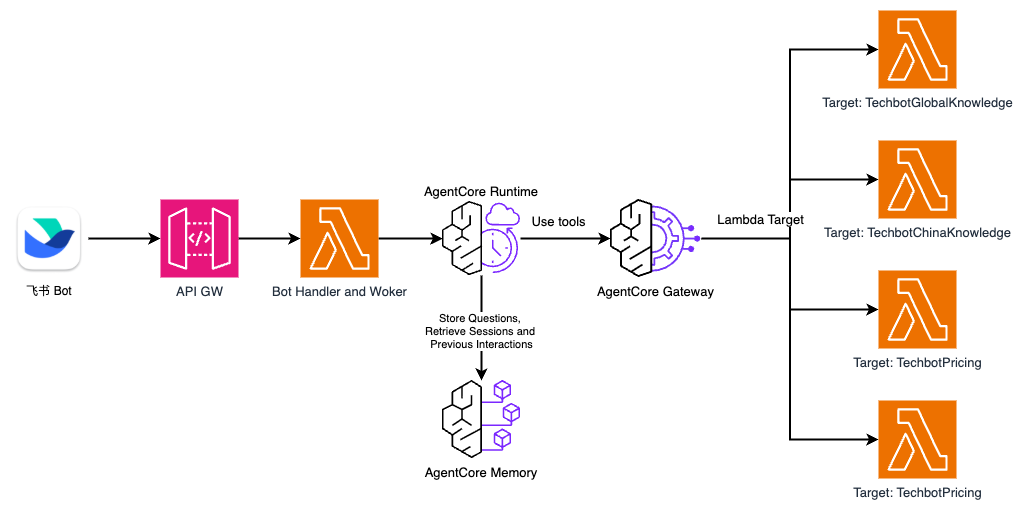
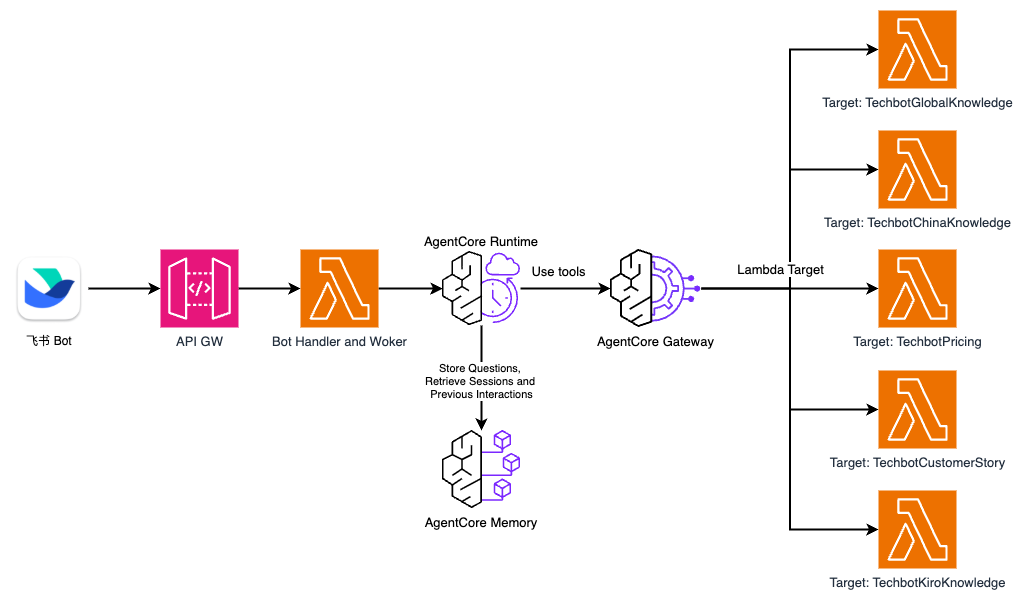
update kiro mcp

Changed region(s): [[0.1515, 0.0, 1.0, 1.0], [0.3939, 0.5938, 0.5455, 0.9375], [0.0, 0.4062, 0.1515, 0.5938]]

diff --git a/README_EN.md b/README_EN.md
@@ -17,6 +17,7 @@ Tools are managed through AgentCore Gateway — the Agent automatically discover
 - **Configuration & Tutorials** — Look up configuration steps, tutorials, and sample code for AWS services
 - **Cost Estimation** — Real-time pricing queries for both AWS Global and China regions
 - **Troubleshooting** — Quickly find troubleshooting guides, quota limits, error codes, and operational SOPs
+- **Kiro Knowledge** — Query documentation about Kiro, including features, setup, specs, hooks, steering, and MCP
 
 ## Deployment
 
@@ -40,7 +41,7 @@ Before deploying, create an app on the Feishu Open Platform to get the App ID an
 
 Click the button and fill in the parameters. The stack creates:
 - **AgentCore Gateway** — Unified MCP tool endpoint + Cognito auth
-- **Gateway Targets** — 4 Lambdas (Global Knowledge, China Knowledge, Pricing, Customer Stories)
+- **Gateway Targets** — 5 Lambdas (Global Knowledge, China Knowledge, Pricing, Customer Stories, Kiro Knowledge)
 - **AgentCore Runtime** — Runs the TechBot container
 - **AgentCore Memory** (optional) — Multi-turn conversation memory
 - **API Gateway** — `/chat` POST endpoint for Feishu webhook

diff --git a/README.md b/README.md
@@ -17,6 +17,7 @@
 - **配置方法与教程查询** — 查询 AWS 服务的配置步骤、操作教程和示例代码，降低上手门槛
 - **成本估算** — 实时查询 AWS 全球和中国区域的服务定价，辅助架构选型和成本优化决策
 - **故障排查与运维支持** — 快速检索 AWS 服务的故障排查指南、配额限制、错误码说明和运维 SOP，缩短问题定位和恢复时间
+- **Kiro 知识查询** — 查询 Kiro 的功能、配置、Specs、Hooks、Steering 和 MCP 等相关文档
 
 ## 部署
 
@@ -39,7 +40,7 @@
 
 点击按钮，填写参数后部署。堆栈会创建：
 - **AgentCore Gateway** — 统一 MCP 工具入口 + Cognito 认证
-- **Gateway Targets** — 4 个 Lambda（Global Knowledge、China Knowledge、Pricing、Customer Stories）
+- **Gateway Targets** — 5 个 Lambda（Global Knowledge、China Knowledge、Pricing、Customer Stories、Kiro Knowledge）
 - **AgentCore Runtime** — 运行 TechBot 容器
 - **AgentCore Memory**（可选）— 多轮对话记忆
 - **API Gateway** — `/chat` POST 端点，用于飞书 webhook
